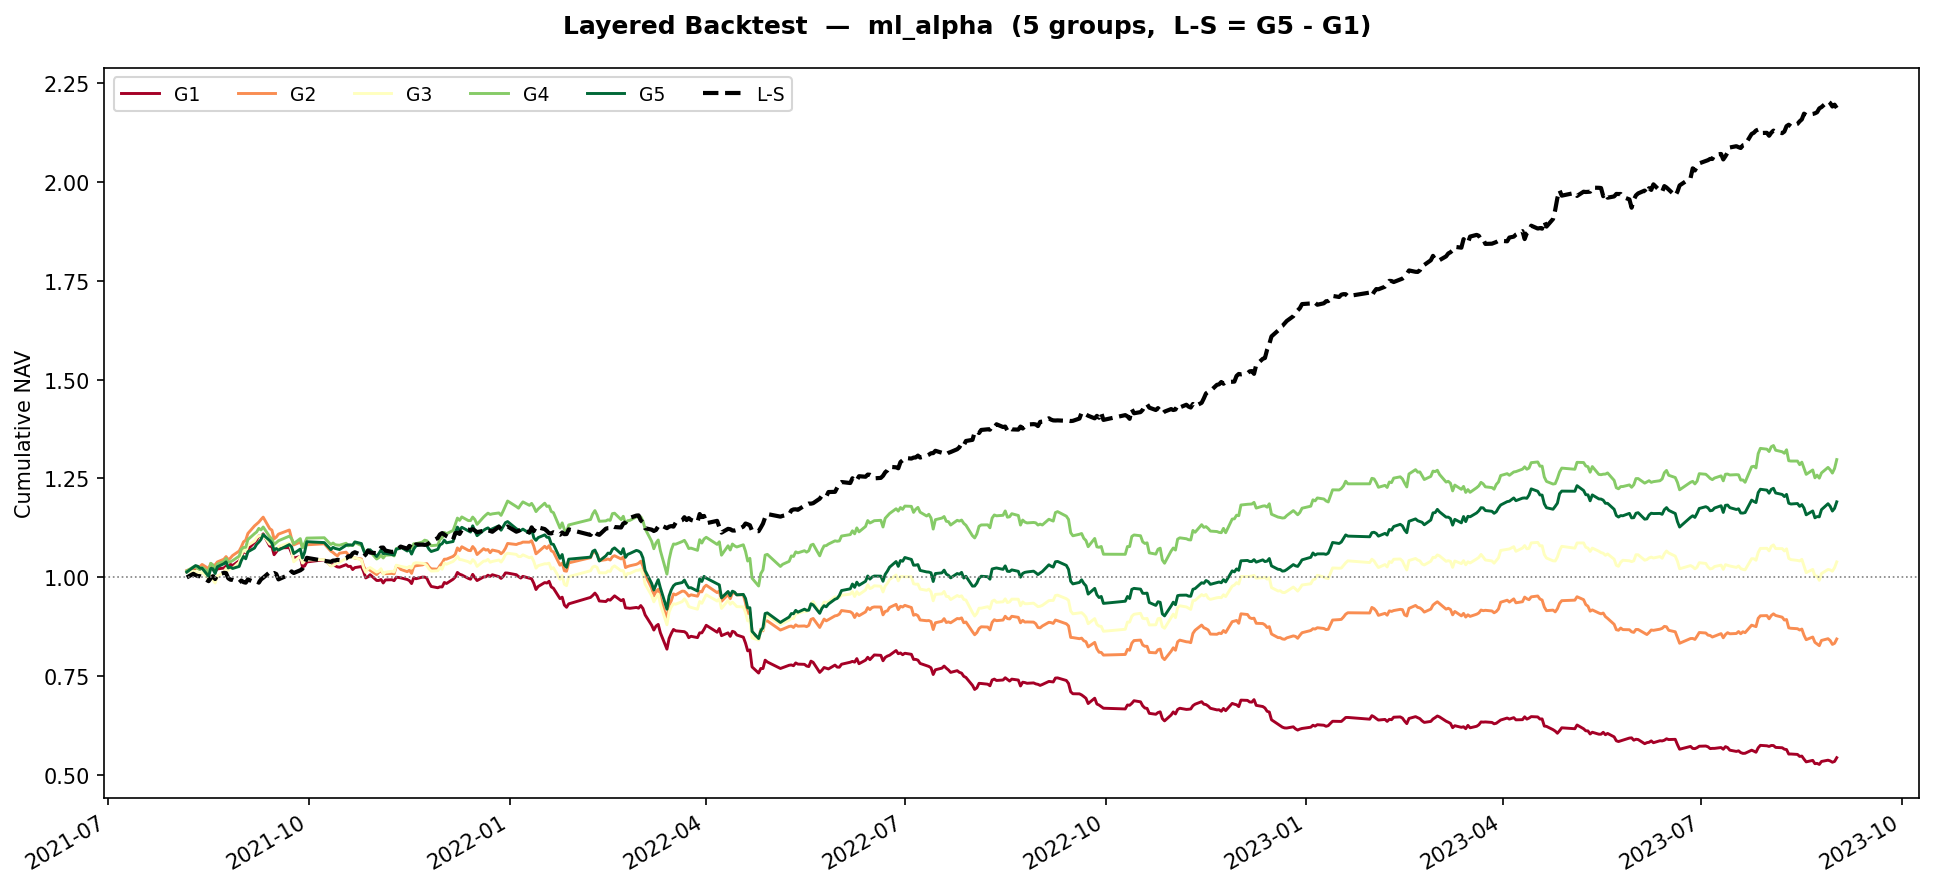
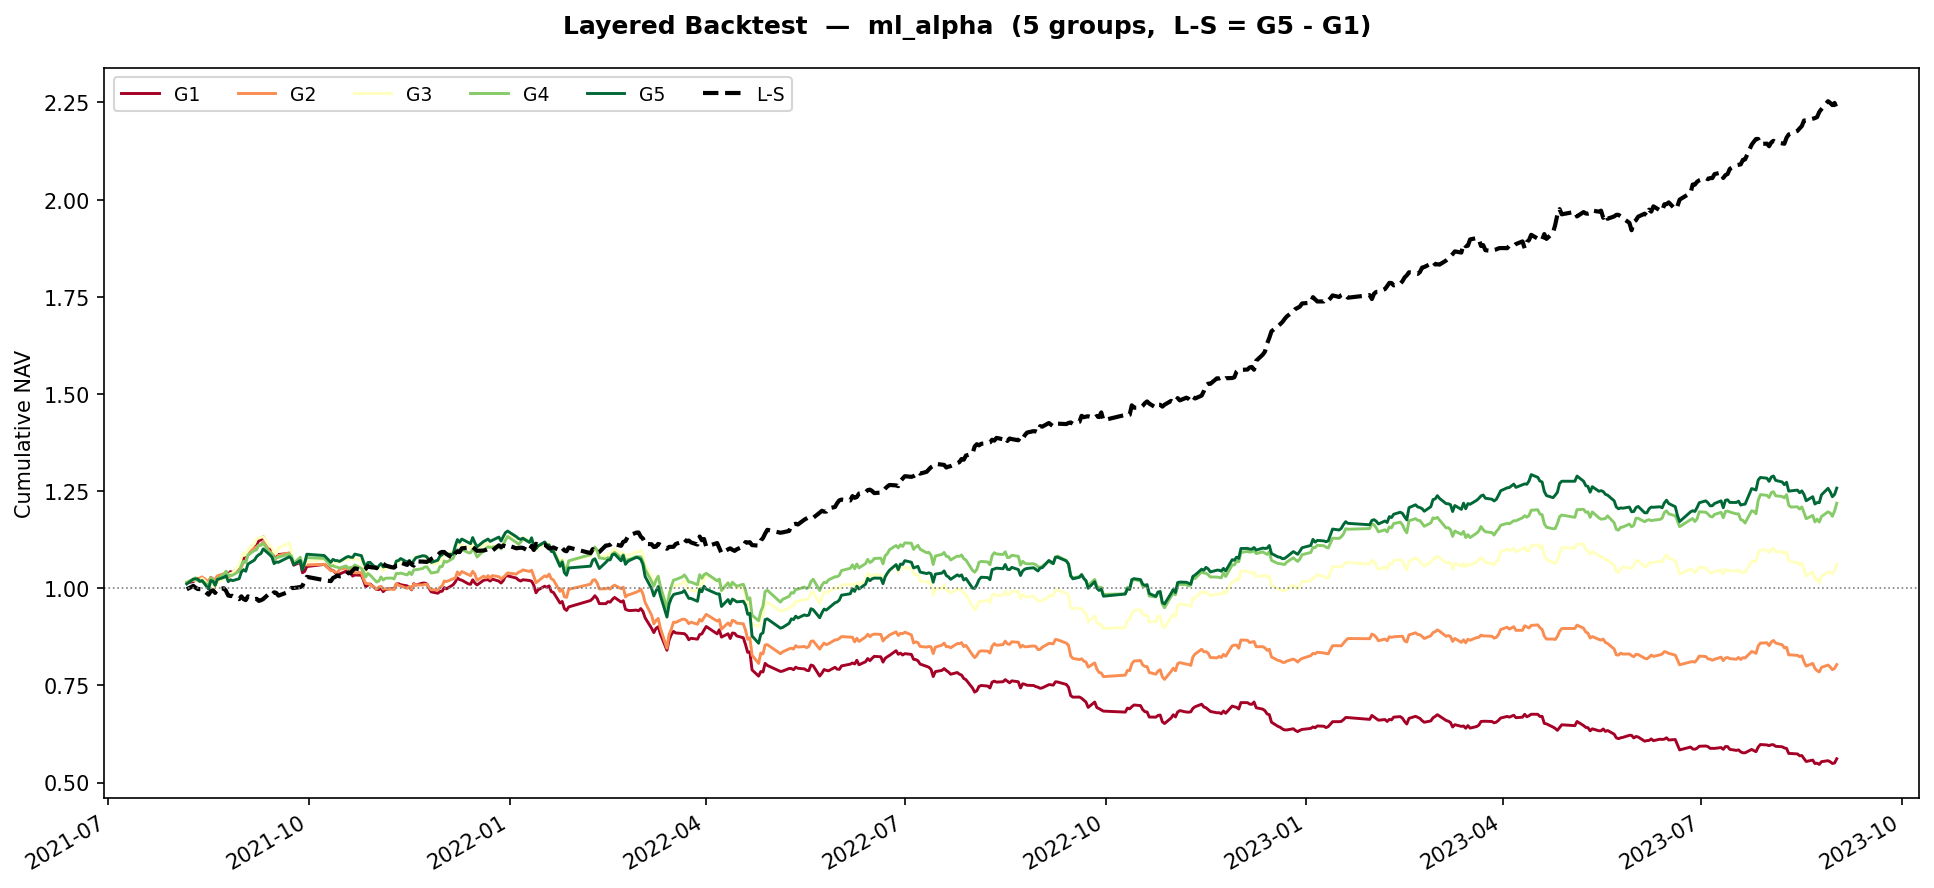
upd: 调整了 lgbm_model.py 的参数

diff --git a/src/lgbm_model.py b/src/lgbm_model.py
@@ -54,9 +54,9 @@ class AlphaLGBM:
         self.model = lgb.LGBMRegressor(
             objective="regression_l1",
             n_estimators=1000,
-            learning_rate=0.01,
-            max_depth=4,
-            num_leaves=15,
+            learning_rate=0.005,
+            max_depth=6,
+            num_leaves=31,
             subsample=0.8,
             subsample_freq=1,
             colsample_bytree=0.8,
@@ -89,7 +89,7 @@ class AlphaLGBM:
         self.feature_names = X_train.columns.tolist()
 
         callbacks = [
-            lgb.early_stopping(stopping_rounds=150, verbose=False),
+            lgb.early_stopping(stopping_rounds=200, verbose=False),
             lgb.log_evaluation(period=-1),
         ]
 
